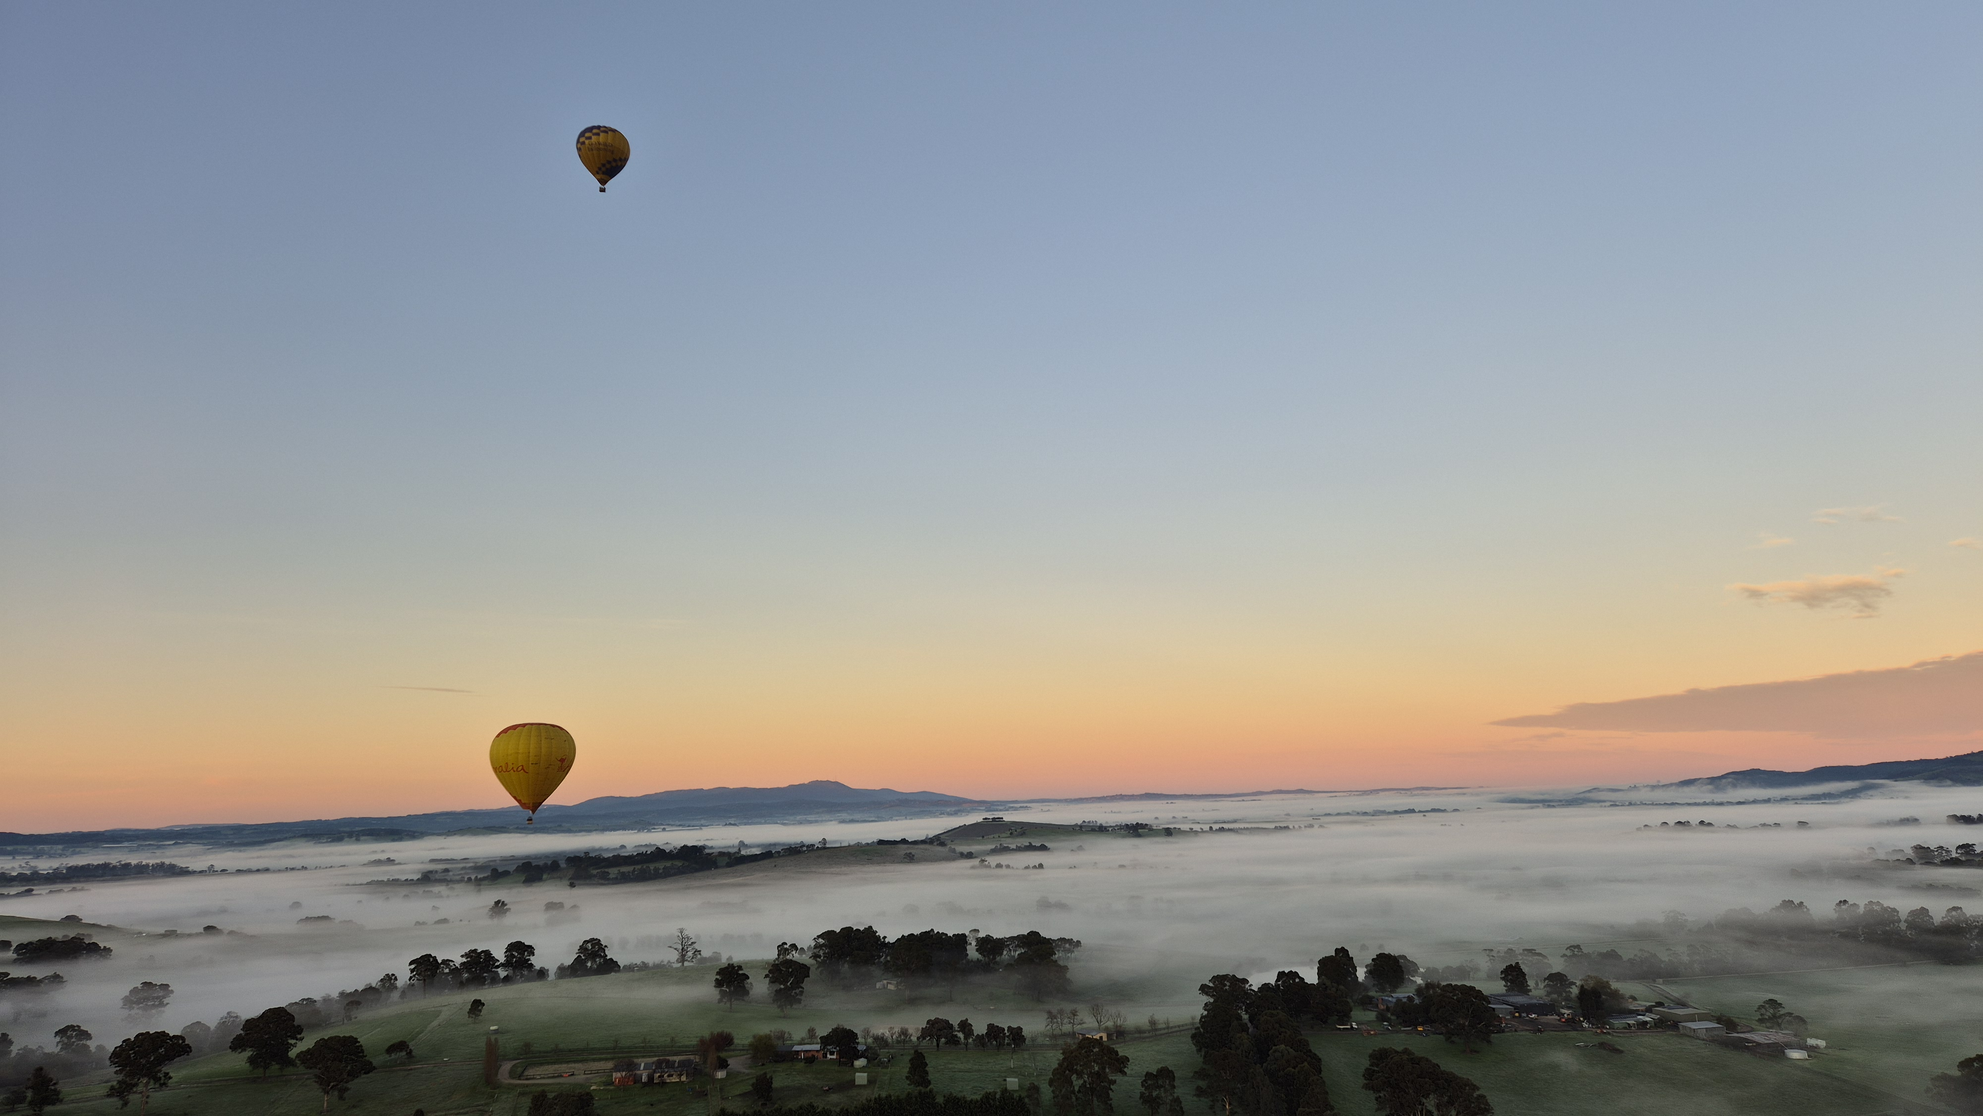
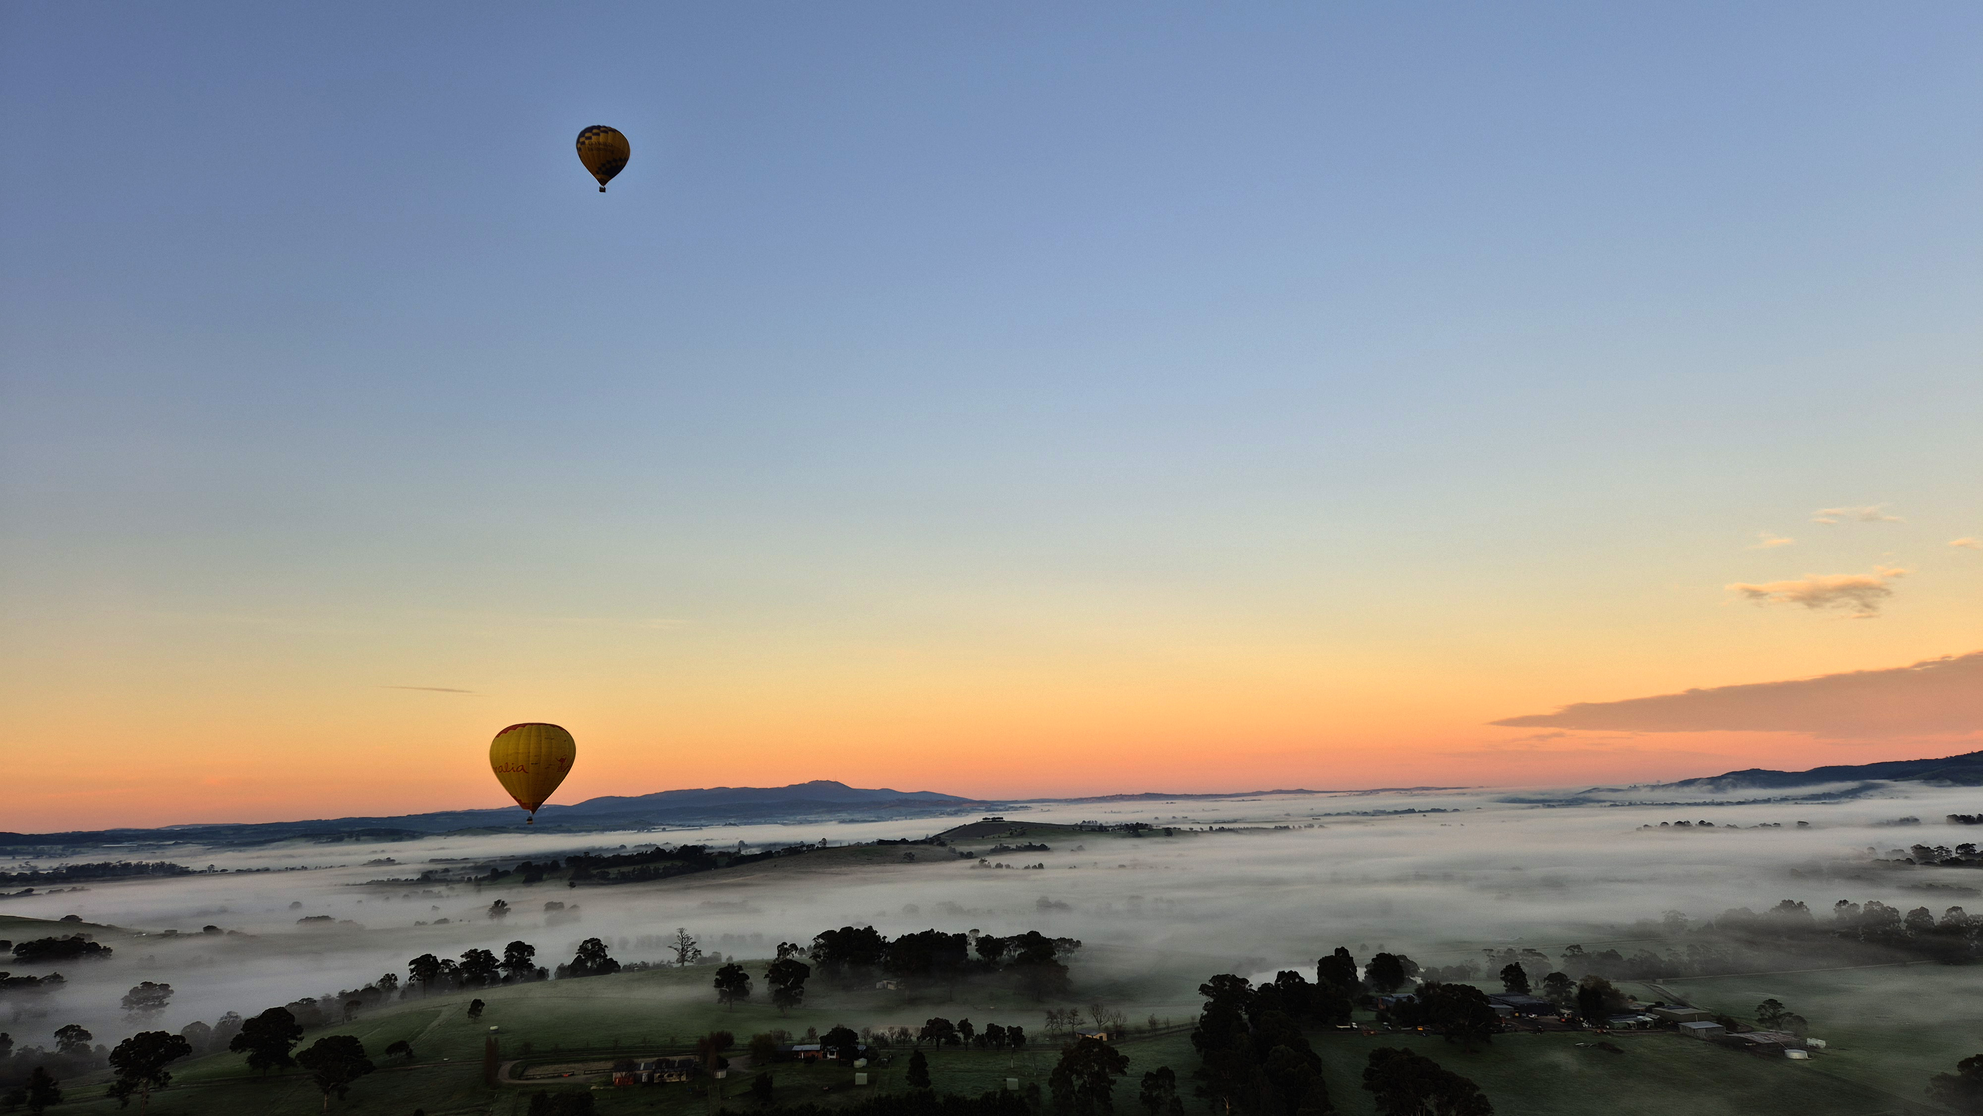
Changed elements

diff --git a/Styling.min.css b/Styling.min.css
@@ -1,2 +1,2 @@
-body{font-family:"Segoe UI",Tahoma,Geneva,Verdana,sans-serif;margin:0px;background-color:#f3f3f3;position:relative;display:flex;flex-direction:column;align-items:center}body section{padding:40px 0;width:100%}p{margin:0;line-height:1.5;text-align:center}h1{margin:0;text-align:center;line-height:1.5;font-family:"Trebuchet MS","Lucida Sans Unicode","Lucida Grande","Lucida Sans",Arial,sans-serif}h2{margin:0;text-align:center;line-height:1.5;font-family:"Trebuchet MS","Lucida Sans Unicode","Lucida Grande","Lucida Sans",Arial,sans-serif}h3{margin:0;text-align:center;line-height:1.5;font-family:"Trebuchet MS","Lucida Sans Unicode","Lucida Grande","Lucida Sans",Arial,sans-serif}.vh{height:100vh}a{font-weight:500;color:#000;-webkit-text-decoration:underline .1px rgba(0,0,0,0);text-decoration:underline .1px rgba(0,0,0,0);transition:-webkit-text-decoration-color 300ms;transition:text-decoration-color 300ms;transition:text-decoration-color 300ms, -webkit-text-decoration-color 300ms}a:hover{-webkit-text-decoration:underline 2px rgba(0,0,0,.5607843137);text-decoration:underline 2px rgba(0,0,0,.5607843137)}a:active{font-weight:700;transition-duration:.2s}.columnFlex{display:flex;flex-direction:column;align-items:center}.rowFlex{display:flex;flex-direction:row;justify-content:center}.columnFlexReverse{display:flex;flex-direction:column-reverse;align-items:center}.rowFlexReverse{display:flex;flex-direction:row-reverse;justify-content:center}.flexWrap{flex-wrap:wrap}.justifyContent{justify-content:center}.alignContents{align-items:center}.borderBox{box-sizing:border-box}.paddingWidth20{padding:0 20px}.gap4{gap:4px}.gap12{gap:12px}.gap20{gap:20px}.gap40{gap:40px}.gap60{gap:60px}.navbar{background-color:#23262e;color:#fff;padding:12px;position:-webkit-sticky;position:sticky;top:0px;border-bottom:solid 1px #020202;box-sizing:border-box;box-shadow:0px 2px 5px #0f0f0f;width:100%;z-index:100}.navbar ul{margin:0;padding:20px;display:flex;flex-direction:row;flex-wrap:wrap;justify-content:center;gap:20px;list-style:none}.navbar ul li a{color:#fff}button{padding:8px 12px;background-color:#d8d8d8;color:#23262e}footer{display:flex;flex-direction:row;justify-content:center;gap:40px;box-sizing:border-box;width:100%;padding:20px 100px;background-color:#23262e;color:#fff}footer h2{text-align:center}footer ul{list-style:none}footer ul li{color:#fff;width:-webkit-fit-content;width:-moz-fit-content;width:fit-content;padding:4px 20px}footer ul li a{width:-webkit-fit-content;width:-moz-fit-content;width:fit-content;color:#fff}.formStyling{display:flex;flex-direction:column;align-items:center;width:100%}form{display:flex;flex-direction:column;gap:16px;width:80%;max-width:800px;background-color:rgba(209,209,209,.3019607843);padding:20px;border-radius:12px;border:solid 1px #d4d4d4;box-shadow:0px 0px 5px #cacaca}form button{cursor:pointer}form p{text-align:left}form label{font-size:16px;font-weight:600}form input{font-size:14px;padding:8px 12px;border:none;border-bottom:solid 1px #000;background-color:#ddd}form input[type=submit]{width:-webkit-min-content;width:-moz-min-content;width:min-content;cursor:auto}form input[type=submit]:disabled{opacity:.5;cursor:not-allowed}form input[type=text]{width:260px;cursor:auto}form input[type=radio]{width:12px;cursor:pointer}form input[type=checkbox]{width:12px;cursor:pointer}form input:hover{background-color:#b4b4b4}form input:focus{border-bottom:solid 1px #000;background-color:#fff;outline:none;box-shadow:none}form textarea{min-height:200px;font-size:14px;padding:8px 12px;border:none;border-bottom:solid 1px #000;background-color:#ddd}form textarea:focus{border-bottom:solid 1px #000;background-color:#fff;outline:none;box-shadow:none}form .textInput{width:100%;display:flex;flex-direction:column;gap:4px}form .textInput .inputWButton{display:flex;flex-direction:row;gap:12px;padding:12px 0 0 0}form .textInput .labelCustom{display:flex;flex-direction:column;gap:4px;padding:0 0 12px 0}form .radioCheckboxInput{display:flex;flex-direction:row;align-items:center;gap:4px}form .radioField{width:20px}form .tagContents{position:relative;min-height:40px;display:flex;flex-direction:row;align-items:center;flex-wrap:wrap;padding:8px 12px;gap:4px;background-color:#ddd;-webkit-clip-path:border-box;clip-path:border-box}form .tagContents .tagBoxText{position:absolute;transition-duration:.4s;bottom:-20px}form .tagContents:hover{background-color:#fff}form .tagContents:hover .tagBoxText{bottom:18px;transition-duration:.4s}form .tagContents .tag{white-space:nowrap;width:-webkit-min-content;width:-moz-min-content;width:min-content;padding:4px 8px;border:#7a7a7a solid 1px;border-radius:4px;background-color:#d8d8d8;display:flex;flex-direction:row;gap:4px;align-items:center}form .tagContents .tag:hover{scale:102%;background-color:#fff;font-weight:500}form .tagContents button{border:none;background-color:rgba(255,255,255,0)}form .tagContents button:hover{scale:120%;font-weight:600;border-radius:1000px}.HeroHeading{width:100%;display:flex;flex-direction:column;align-items:center;padding:20px 12px}.HeroHeading h1{text-align:center}.HeroHeading p{text-align:center}.underline{padding-bottom:8px;border-bottom:solid 1px #cacaca;width:160px}.bgHeading{padding:40px 80px;max-width:800px;width:80%;color:#fff}.paragraphText{max-width:600px;width:80%}img{border-radius:8px}
+body{font-family:"Segoe UI",Tahoma,Geneva,Verdana,sans-serif;margin:0px;background-color:#f3f3f3;position:relative;display:flex;flex-direction:column;align-items:center}body section{padding:40px 0;width:100%}p{margin:0;line-height:1.5;text-align:center}h1{margin:0;text-align:center;line-height:1.5;font-family:"Trebuchet MS","Lucida Sans Unicode","Lucida Grande","Lucida Sans",Arial,sans-serif}h2{margin:0;text-align:center;line-height:1.5;font-family:"Trebuchet MS","Lucida Sans Unicode","Lucida Grande","Lucida Sans",Arial,sans-serif}h3{margin:0;text-align:center;line-height:1.5;font-family:"Trebuchet MS","Lucida Sans Unicode","Lucida Grande","Lucida Sans",Arial,sans-serif}.vh{height:100vh}a{font-weight:500;color:#000;-webkit-text-decoration:underline .1px rgba(0,0,0,0);text-decoration:underline .1px rgba(0,0,0,0);transition:-webkit-text-decoration-color 300ms;transition:text-decoration-color 300ms;transition:text-decoration-color 300ms, -webkit-text-decoration-color 300ms}a:hover{-webkit-text-decoration:underline 2px rgba(0,0,0,.5607843137);text-decoration:underline 2px rgba(0,0,0,.5607843137)}a:active{font-weight:700;transition-duration:.2s}.columnFlex{display:flex;flex-direction:column;align-items:center}.rowFlex{display:flex;flex-direction:row;justify-content:center}.columnFlexReverse{display:flex;flex-direction:column-reverse;align-items:center}.rowFlexReverse{display:flex;flex-direction:row-reverse;justify-content:center}.flexWrap{flex-wrap:wrap}.justifyContent{justify-content:center}.alignContents{align-items:center}.borderBox{box-sizing:border-box}.paddingWidth20{padding:0 20px}.gap4{gap:4px}.gap12{gap:12px}.gap20{gap:20px}.gap40{gap:40px}.gap60{gap:60px}.navbar{background-color:#23262e;color:#fff;padding:12px;position:-webkit-sticky;position:sticky;top:0px;border-bottom:solid 1px #020202;box-sizing:border-box;box-shadow:0px 2px 5px #0f0f0f;width:100%;z-index:100}.navbar ul{margin:0;padding:20px;display:flex;flex-direction:row;flex-wrap:wrap;justify-content:center;gap:20px;list-style:none}.navbar ul li a{color:#fff}button{padding:8px 12px;cursor:pointer;border-radius:4px;box-shadow:0px 0px 5px #cacaca;transition:.2s}.primary{background-color:#1b2125;color:#f2f4f7;border:solid 1px #a8a8a8}.primary:hover{background-color:#888892;color:#f2f4f7;transition:.2s}.primary:active{scale:.95;background-color:#1b2125;color:#f2f4f7;transition:.2s}.secondary{background-color:#e0e2e4;color:#141618;border:solid 1px #a8a8a8}.secondary:hover{background-color:#a5adb3;color:#141618;transition:.2s}.secondary:active{scale:.95;background-color:#898f96;color:#161616;transition:.2s}footer{display:flex;flex-direction:row;justify-content:center;gap:40px;box-sizing:border-box;width:100%;padding:20px 100px;background-color:#23262e;color:#fff}footer h2{text-align:center}footer ul{list-style:none}footer ul li{color:#fff;width:-webkit-fit-content;width:-moz-fit-content;width:fit-content;padding:4px 20px}footer ul li a{width:-webkit-fit-content;width:-moz-fit-content;width:fit-content;color:#fff}.formStyling{display:flex;flex-direction:column;align-items:center;width:100%}form{display:flex;flex-direction:column;gap:16px;width:80%;max-width:800px;background-color:rgba(209,209,209,.3019607843);padding:20px;border-radius:12px;border:solid 1px #d4d4d4;box-shadow:0px 0px 5px #cacaca}form button{cursor:pointer}form p{text-align:left}form label{font-size:16px;font-weight:600}form input{font-size:14px;padding:8px 12px;border:none;border-bottom:solid 1px #000;background-color:#ddd}form input[type=submit]{width:-webkit-min-content;width:-moz-min-content;width:min-content;cursor:auto}form input[type=submit]:disabled{opacity:.5;cursor:not-allowed}form input[type=text]{width:260px;cursor:auto}form input[type=radio]{width:12px;cursor:pointer}form input[type=checkbox]{width:12px;cursor:pointer}form input:hover{background-color:#b4b4b4}form input:focus{border-bottom:solid 1px #000;background-color:#fff;outline:none;box-shadow:none}form textarea{min-height:200px;font-size:14px;padding:8px 12px;border:none;border-bottom:solid 1px #000;background-color:#ddd}form textarea:focus{border-bottom:solid 1px #000;background-color:#fff;outline:none;box-shadow:none}form .textInput{width:100%;display:flex;flex-direction:column;gap:4px}form .textInput .inputWButton{display:flex;flex-direction:row;gap:12px;padding:12px 0 0 0}form .textInput .labelCustom{display:flex;flex-direction:column;gap:4px;padding:0 0 12px 0}form .radioCheckboxInput{display:flex;flex-direction:row;align-items:center;gap:4px}form .radioField{width:20px}form .tagContents{position:relative;min-height:40px;display:flex;flex-direction:row;align-items:center;flex-wrap:wrap;padding:8px 12px;gap:4px;background-color:#ddd;-webkit-clip-path:border-box;clip-path:border-box}form .tagContents .tagBoxText{position:absolute;transition-duration:.4s;bottom:-20px}form .tagContents:hover{background-color:#fff}form .tagContents:hover .tagBoxText{bottom:18px;transition-duration:.4s}form .tagContents .tag{white-space:nowrap;width:-webkit-min-content;width:-moz-min-content;width:min-content;padding:4px 8px;border:#7a7a7a solid 1px;border-radius:4px;background-color:#d8d8d8;display:flex;flex-direction:row;gap:4px;align-items:center}form .tagContents .tag:hover{scale:102%;background-color:#fff;font-weight:500}form .tagContents button{border:none;background-color:rgba(255,255,255,0)}form .tagContents button:hover{scale:120%;font-weight:600;border-radius:1000px}.HeroHeading{width:100%;display:flex;flex-direction:column;align-items:center;padding:20px 12px}.HeroHeading h1{text-align:center}.HeroHeading p{text-align:center}.underline{padding-bottom:8px;border-bottom:solid 1px #cacaca;width:160px}.bgHeading{padding:40px 80px;max-width:800px;width:80%;color:#fff}.paragraphText{max-width:600px;width:80%}img{border-radius:8px}.accomCard{display:flex;flex-direction:column;align-items:center;gap:12px;max-width:400px;min-width:320px;width:80%;background-color:#fff;border:1px solid #dfdfdf;border-radius:12px;overflow:hidden;box-shadow:0 0 5px 1px #cacaca;translate:0px 0px;transition-duration:.1s}.accomCard:hover{translate:0px -12px;transition-duration:.2s}.accomCard:hover img{opacity:.4;transition-duration:.2s}.accommodationCatalogue{margin-top:40px;display:flex;flex-direction:row;justify-content:center;flex-wrap:wrap;box-sizing:border-box;gap:60px;width:100%}
 /*# sourceMappingURL=Styling.min.css.map */

diff --git a/accommodation.js b/accommodation.js
@@ -1,10 +1,37 @@
 const accommodationCat = [
     {
         id: 1,
+        image: 'Images/Balgownie/balgownie-estate-yarra-valley_171748569914.jpg',
+        heading: 'Balgownie Estate',
+        paragraph: 'This accommodation is next to the reception for ease of convience, it is also where the bridal party will be staying.',
+        map: '',
+        link: '',
+
+    },
+    {
+        id: 2,
+        image: 'Images/Scene/20260710_073936.jpg',
+        heading: 'Healeville Hotel',
+        paragraph: 'Located in Healesville, near a lot of nice cafe, restaurants and in the heart of town.',
+        map: '',
+        link: '',
+
+    },
+    {
+        id: 3,
         image: 'Images/',
-        heading: 'placeholder',
-        paragraph: 'placeholder',
-        cost: '$$',
+        heading: 'Tuck Inn',
+        paragraph: 'In the Heart of Healesville, recommend this place for its ease of ',
+        map: '',
+        link: '',
+
+    },
+    {
+        id: 3,
+        image: 'Images/',
+        heading: 'Yarra Valley grand Hotel',
+        paragraph: '2nd cloesest to the reception venue, in the center of yarra glen too so plenty of cafe, restaurants. ',
+        map: '',
         link: '',
 
     },
@@ -24,14 +51,19 @@ document.addEventListener('DOMContentLoaded', () => {
 
         accomCat.innerHTML +=  
         `   
-            <div>
-                <img src="${accommodation.image}">
-                <h2> ${accommodation.heading}</h2>
-                <p>${accommodation.paragraph}</p>
+            <div class="accomCard">
+                <img style="width:400px; height: 200px; object-fit:cover; border-radius: 0px;" src="${accommodation.image}">
+                
+                <div style="padding: 4px 20px;">
+                    <h2> ${accommodation.heading}</h2>
+                    <p style="height: 80px; overflow: auto;">${accommodation.paragraph}</p>
+                </div>
 
-                <div>
-                    <p>${accommodation.cost}</p>
-                    <button onclick="window.open('${accommodation.link}', 'blank')"> View Here </buttonp>
+                <div class="underline"></div>
+
+                <div style="display:flex; flex-direction:row; gap:12px; align-items: center; justify-content:space-between; width: 100%; padding: 0px 16px 8px; box-sizing: border-box; ">
+                    <button class="secondary" style="width:100%;" onclick="window.open('${accommodation.map}', 'blank')"> View Maps </button>
+                    <button class="primary" style="width:100%;" onclick="window.open('${accommodation.link}', 'blank')"> Book Here </button>
                 </div>
             
             

diff --git a/Styling.scss b/Styling.scss
@@ -23,9 +23,11 @@ p {
     margin: 0;
 
     line-height: 1.5; 
+    
 
     text-align: center;
 }
+
 
 h1 {
 
@@ -223,8 +225,73 @@ a {
 button {
 
     padding: 8px 12px;
-    background-color: #d8d8d8;
-    color: #23262E;
+    
+
+    
+
+    cursor: pointer;
+
+    
+
+    border-radius: 4px;
+
+    box-shadow: 0px 0px 5px rgb(202, 202, 202);
+    transition: .2s;
+
+    
+}
+
+.primary {
+
+        
+    background-color: #1b2125;
+    color: #f2f4f7;
+    border: solid 1px #a8a8a8;
+
+    &:hover {
+
+    
+    
+
+        background-color: #888892;
+        color: #f2f4f7;
+        transition: .2s;
+    }
+
+    &:active {
+
+        scale: .95;
+        background-color: #1b2125;
+        color: #f2f4f7;
+        transition: .2s;
+    }
+
+}
+
+.secondary {
+
+    background-color: #e0e2e4;
+    color: #141618;
+    border: solid 1px #a8a8a8;
+    
+
+    &:hover {
+
+    
+        background-color: #a5adb3;
+        color: #141618;
+
+        transition: .2s;
+    }
+
+    &:active {
+
+        scale: .95;
+        background-color: #898f96;
+        color: #161616;
+        transition: .2s;
+    }
+
 }
 
 footer {
@@ -589,4 +656,58 @@ form {
 img {
 
     border-radius: 8px;
+}
+
+.accomCard {
+
+    display: flex;
+    flex-direction: column;
+    align-items: center;
+
+    gap: 12px;
+
+    max-width: 400px;
+    min-width: 320px;
+    width: 80%;
+    background-color: #ffffff;
+
+    border: 1px solid #dfdfdf;
+    border-radius: 12px; 
+    overflow: hidden;
+
+    box-shadow: 0 0 5px 1px #cacaca;
+
+    translate: 0px 0px;
+    transition-duration: .1s;
+
+    &:hover {
+
+        translate: 0px -12px;
+        transition-duration: .2s;
+
+        img {
+
+            opacity: .4;
+            transition-duration: .2s;
+        }
+    }
+}
+
+.accommodationCatalogue {
+
+    margin-top: 40px;
+
+    display: flex;
+    flex-direction: row;
+    justify-content: center;
+    flex-wrap: wrap;
+
+    box-sizing: border-box;
+
+    gap: 60px;
+    width: 100%;
+
+    
+
+    
 }

diff --git a/Styling.css b/Styling.css
@@ -151,8 +151,44 @@ a:active {
 
 button {
   padding: 8px 12px;
-  background-color: #d8d8d8;
-  color: #23262E;
+  cursor: pointer;
+  border-radius: 4px;
+  box-shadow: 0px 0px 5px rgb(202, 202, 202);
+  transition: 0.2s;
+}
+
+.primary {
+  background-color: #1b2125;
+  color: #f2f4f7;
+  border: solid 1px #a8a8a8;
+}
+.primary:hover {
+  background-color: #888892;
+  color: #f2f4f7;
+  transition: 0.2s;
+}
+.primary:active {
+  scale: 0.95;
+  background-color: #1b2125;
+  color: #f2f4f7;
+  transition: 0.2s;
+}
+
+.secondary {
+  background-color: #e0e2e4;
+  color: #141618;
+  border: solid 1px #a8a8a8;
+}
+.secondary:hover {
+  background-color: #a5adb3;
+  color: #141618;
+  transition: 0.2s;
+}
+.secondary:active {
+  scale: 0.95;
+  background-color: #898f96;
+  color: #161616;
+  transition: 0.2s;
 }
 
 footer {
@@ -386,4 +422,40 @@ form .tagContents button:hover {
 
 img {
   border-radius: 8px;
+}
+
+.accomCard {
+  display: flex;
+  flex-direction: column;
+  align-items: center;
+  gap: 12px;
+  max-width: 400px;
+  min-width: 320px;
+  width: 80%;
+  background-color: #ffffff;
+  border: 1px solid #dfdfdf;
+  border-radius: 12px;
+  overflow: hidden;
+  box-shadow: 0 0 5px 1px #cacaca;
+  translate: 0px 0px;
+  transition-duration: 0.1s;
+}
+.accomCard:hover {
+  translate: 0px -12px;
+  transition-duration: 0.2s;
+}
+.accomCard:hover img {
+  opacity: 0.4;
+  transition-duration: 0.2s;
+}
+
+.accommodationCatalogue {
+  margin-top: 40px;
+  display: flex;
+  flex-direction: row;
+  justify-content: center;
+  flex-wrap: wrap;
+  box-sizing: border-box;
+  gap: 60px;
+  width: 100%;
 }/*# sourceMappingURL=Styling.css.map */

diff --git a/index.html b/index.html
@@ -20,6 +20,7 @@
 
         <section class="vh columnFlex justifyContent" 
             style="
+            background-image: url(Images/Scene/20260710_074219.jpg);
             background-repeat: no-repeat;
             background-size: cover; 
             background-position: center;
@@ -27,9 +28,13 @@
             alt="Welcome">
 
             <div class="columnFlex gap20">
+
+                <div>
+                    <img src="" alt="">
+                </div>
                 <h1 style="font-size: 48px;">Welcome</h1>
                 <h1>You are Invited to <br> Laura and Alessandro's Wedding</h1>
-                <p> Join us for our day in celebrating our wedding</p>
+                <p style="font-weight: 600;"> Join us for our day in celebrating our wedding</p>
                 <div class="underline"></div>
             </div>
 

diff --git a/accommodation.html b/accommodation.html
@@ -21,7 +21,7 @@
 
             <div class="ColumnFlex gap20">
                 <h1>Where Can I Find Accommodation?</h1>
-                <p>Here are places to recommend around the Wedding Venue</p>
+                <p style="font-weight: 600;">Here are places to recommend around the Wedding Venue</p>
                 <div class="underline"></div>
             </div>
 
@@ -29,10 +29,10 @@
 
         <section alt="Accommodation Catalogue">
 
-            <div class="columnFlex">
+            <div class="columnFlex ">
 
                 <h1>Accommodations</h1>
-                <p>Here are some venues we can recommend around.</p>
+                <p>Here are some venues we can recommend around</p>
 
                 <div class="accommodationCatalogue">
 

diff --git a/rsvp.html b/rsvp.html
@@ -21,7 +21,7 @@
 
             <div class="ColumnFlex gap20">
                 <h1>RSVP?</h1>
-                <p>Want to make it official? fill in the form so we know you're comming along for the ride?</p>
+                <p style="font-weight: 600;">Want to make it official? fill in the form so we know you're comming along for the ride?</p>
                 <div class="underline"></div>
             </div>
 

diff --git a/schedule.html b/schedule.html
@@ -21,7 +21,7 @@
 
             <div class="ColumnFlex gap20">
                 <h1>Schedule On The Day!</h1>
-                <p>Don't worry it's not complex so no stress.</p>
+                <p style="font-weight: 600;">Don't worry it's not complex so no stress.</p>
                 <div class="underline"></div>
             </div>
 

diff --git a/rsvp.js b/rsvp.js
@@ -78,7 +78,7 @@ document.addEventListener("DOMContentLoaded", () => {
         }
         
 
-        tagButton.addEventListener("click", addTag);
+        tagButton.addEventListener("click", addTag); 
 
         tagInput.addEventListener("keydown", (event) => {
 
